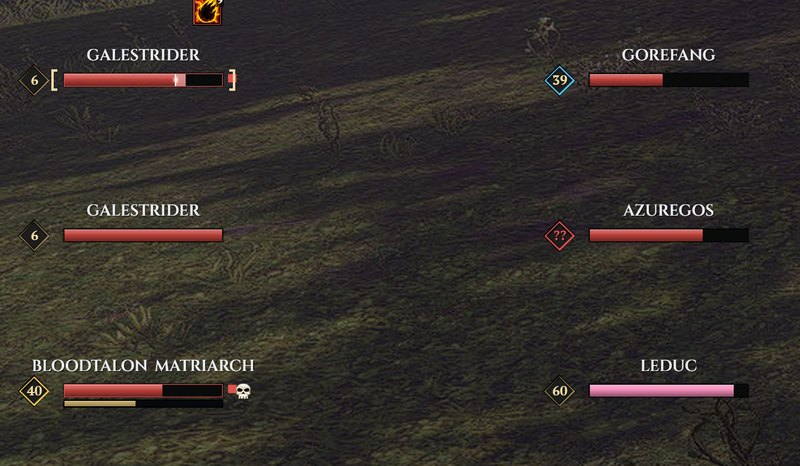
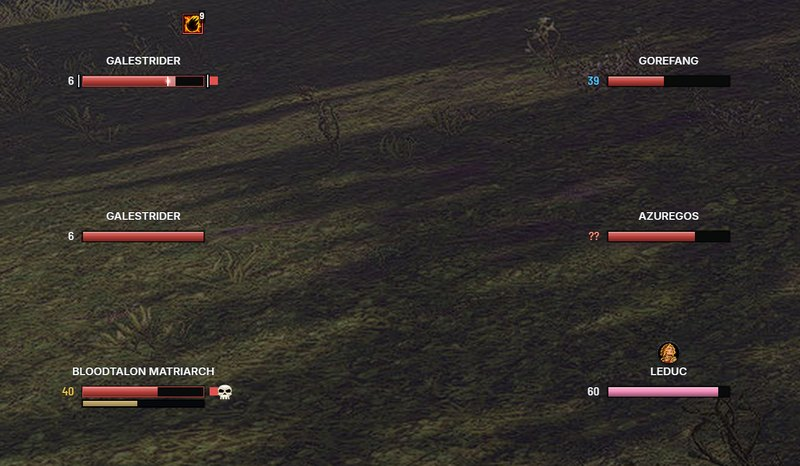
docs(readme): retake the README test renders in Medallions
Drops the Frames and Orbs HUD pictures and the orb crop, renders the 1080
HUD, unit frames, rail, meter and Healer pair in Medallions, and retunes
their crops. The store gallery drops its Frames and Orbs pictures and
renumbers the rest.

diff --git a/Tools/render/readme.py b/Tools/render/readme.py
@@ -9,14 +9,11 @@ Every render draws at the shipped ornament level, Full. In-game Medallions media
 
 The pictures:
 
-  hud_<style>_5120, hud_<style>_1080   the whole HUD in Frames and Orbs, in combat, on a 5120x1440 screen
-                                       in the Spread arrangement at Interface size Auto and on a 1920x1080 screen at the
-                                       15/16 size the game picks there
+  hud_1080                             the whole HUD in combat on a 1920x1080 screen at the 15/16 size the game picks
   ultrawide_centred, ultrawide_spread  the Healer layout on 5120x1440 in each ultrawide arrangement
-  crop_*                               close crops of the 1080 HUD drawn at twice the density: the orbs and tray, the
-                                       unit frames, the right rail, the group meter,
-                                       and the nameplate scene; a rogue's Medallions crest jewels and forged data
-                                       dock; a world map road and flight route
+  crop_*                               close crops of the 1080 HUD drawn at twice the density: the unit frames, the
+                                       right rail, the group meter, and the nameplate scene; a rogue's crest jewels
+                                       and forged data dock; a world map road and flight route
   frame_*                              frames cut directly from the gallery scenes
 
 --no-render reuses the renders a previous run left in DIR. --only redoes the named pictures. Pillow is needed; the script
@@ -38,7 +35,6 @@ DEFAULT_WORK = os.environ.get("KSTYLEUI_MEDIA_WORK", os.path.expanduser("~/.capy
 
 PLATES = Path(ROOT) / "docs/media/plates"
 GALLERY_PPU = 2.0
-STYLES = ("Frames", "Orbs")
 BUDGET_BYTES = 4 * 1024 * 1024
 QUALITY = 86
 
@@ -46,46 +42,31 @@ FULL = {"RENDER_ORNAMENTS": "Full"}
 COMBAT = {"RENDER_LAYOUT": "DPS", "RENDER_LOSS": "1", "RENDER_METER_SECRET": "1"}
 ULTRAWIDE = {"RENDER_SIZE": "auto", "RENDER_SCREEN": "5120x1440"}
 HD = {"RENDER_SIZE": "0.9375", "RENDER_SCREEN": "1920x1080"}
+HUD = dict(HD, **COMBAT)
 
-
-def style_env(style):
-    env = dict(COMBAT, RENDER_HUD_STYLE=style)
-    if style == "Orbs":
-        env["RENDER_ORBS_HIT"] = "1"
-    return env
-
-
-
-RENDERS = {}
-for _style in STYLES:
-    _key = _style.lower()
-    RENDERS[_key + "_5120"] = ("hud_reference", 1440 / 1080, dict(ULTRAWIDE, **style_env(_style), RENDER_ARRANGEMENT="spread"), "--strict")
-    RENDERS[_key + "_1080"] = ("hud_reference", 1.0, dict(HD, **style_env(_style)), "--strict")
-    RENDERS[_key + "_1080_2x"] = ("hud_reference", 2.0, dict(HD, **style_env(_style)), "--strict")
-for _arrangement in ("centred", "spread"):
-    RENDERS["healer_" + _arrangement] = ("hud_reference", 1440 / 1080, dict(
-        ULTRAWIDE, **dict(style_env("Frames"), RENDER_LAYOUT="Healer", RENDER_ARRANGEMENT=_arrangement)), "--strict")
-RENDERS["meter_party"] = ("hud_reference", 2.0, dict(HD, **dict(style_env("Frames"), RENDER_METER_GROUP="party")), "--strict")
-RENDERS["meter_both_2x"] = ("hud_reference", 2.0, dict(HD, **dict(style_env("Frames"), RENDER_METER_GROUP="party", RENDER_METER_CHOICE="both")), "--strict")
-RENDERS["plates"] = ("nameplate_bible", 2.0, {"RENDER_COMBAT": "1"}, "--strict")
-RENDERS["rogue_1080_2x"] = ("hud_rogue_mac", 2.0, dict(HD, **style_env("Medallions")), "--strict")
-RENDERS["route_flight"] = ("worldmap_roads", 2.0, dict(HD, RENDER_MAP_TRIP="flight"), "--strict")
+RENDERS = {
+    "hud_1080": ("hud_reference", 1.0, HUD, "--strict"),
+    "hud_1080_2x": ("hud_reference", 2.0, HUD, "--strict"),
+    "healer_centred": ("hud_reference", 1440 / 1080, {**ULTRAWIDE, **COMBAT, "RENDER_LAYOUT": "Healer", "RENDER_ARRANGEMENT": "centred"}, "--strict"),
+    "healer_spread": ("hud_reference", 1440 / 1080, {**ULTRAWIDE, **COMBAT, "RENDER_LAYOUT": "Healer", "RENDER_ARRANGEMENT": "spread"}, "--strict"),
+    "meter_party": ("hud_reference", 2.0, dict(HUD, RENDER_METER_GROUP="party"), "--strict"),
+    "meter_both_2x": ("hud_reference", 2.0, dict(HUD, RENDER_METER_GROUP="party", RENDER_METER_CHOICE="both"), "--strict"),
+    "plates": ("nameplate_bible", 2.0, {"RENDER_COMBAT": "1"}, "--strict"),
+    "rogue_1080_2x": ("hud_rogue_mac", 2.0, HUD, "--strict"),
+    "route_flight": ("worldmap_roads", 2.0, dict(HD, RENDER_MAP_TRIP="flight"), "--strict"),
+}
 
 GALLERIES = ("gallery_setup", "gallery_groupframes", "gallery_skins_character")
 
 # name, source, crop, width. A source is "render:<RENDERS key>" or "frame:<gallery frame name>"; a crop is
 # "WxH+X+Y" in the source's pixels or None. A picture narrower than its width stays as it is.
 IMAGES = [
-    ("hud_frames_5120", "render:frames_5120", None, 1600),
-    ("hud_orbs_5120", "render:orbs_5120", None, 1600),
-    ("hud_frames_1080", "render:frames_1080", None, 1200),
-    ("hud_orbs_1080", "render:orbs_1080", None, 1200),
-    ("crop_orbs", "render:orbs_1080_2x", "2120x525+860+1615", 1000),
-    ("crop_unitframes", "render:frames_1080_2x", "1480x560+1260+1290", 900),
+    ("hud_1080", "render:hud_1080", None, 1200),
+    ("crop_unitframes", "render:hud_1080_2x", "1640x270+1100+1695", 1400),
     ("crop_nameplates", "render:plates", "1340x780+400+300", 800),
-    ("crop_meter", "render:meter_party", "470x330+3340+1825", 540),
-    ("crop_meters_both", "render:meter_both_2x", "980x330+2830+1825", 1120),
-    ("crop_rail", "render:frames_1080_2x", "1100x1040+2720+20", 660),
+    ("crop_meter", "render:meter_party", "490x320+3328+1820", 540),
+    ("crop_meters_both", "render:meter_both_2x", "845x314+2975+1826", 1120),
+    ("crop_rail", "render:hud_1080_2x", "1100x1130+2720+10", 660),
     ("crop_crest", "render:rogue_1080_2x", "330x420+1755+1735", 540),
     ("crop_dock", "render:rogue_1080_2x", "1960x420+940+1740", 1400),
     ("crop_route", "render:route_flight", "1385x968+900+640", 1000),
@@ -143,8 +124,7 @@ def run(cmd, env=None):
 def scenery_plate(env):
     """Published renders always use a committed real plate, ignoring local mockup overrides."""
     shape = "ultrawide" if env.get("RENDER_SCREEN") == "5120x1440" else "1080" if env.get("RENDER_SCREEN") == "1920x1080" else "mac"
-    ground = "town" if env.get("RENDER_HUD_STYLE") == "Orbs" else "forest"
-    return PLATES / (ground + "-" + shape + ".jpg")
+    return PLATES / ("forest-" + shape + ".jpg")
 
 
 def bash_path(path):
